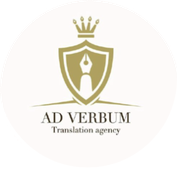
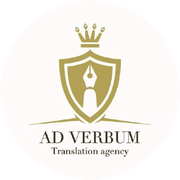
Взять логотип из оригинального файла вместо кадра со скриншота
В архиве сайта нашёлся исходник логотипа 799x800. Раньше логотип был
вырезан из скриншота телефона — 302px и мягкие края. Теперь он обрезан
по содержимому из оригинала, отрисован чётко, размеры в разметке
обновлены под новый файл.

Claude-Session: https://claude.ai/code/session_01NP9HooztR7d3vc8w62THR5

Changed region(s): [[0.1667, 0.0833, 0.8333, 0.8889]]

diff --git a/index.html b/index.html
@@ -69,7 +69,7 @@
 <header class="header" id="header">
   <div class="container header__inner">
     <a class="brand" href="#top" aria-label="AD VERBUM — на главную">
-      <span class="brand__badge"><img src="assets/logo.png" alt="AD VERBUM, бюро переводов" width="302" height="302"></span>
+      <span class="brand__badge"><img src="assets/logo.png" alt="AD VERBUM, бюро переводов" width="420" height="420"></span>
       <span class="brand__text">
         <span class="brand__name">AD VERBUM</span>
         <span class="brand__tag">бюро переводов</span>
@@ -722,7 +722,7 @@
 <footer class="footer">
   <div class="container footer__inner">
     <div class="footer__brand">
-      <span class="brand__badge brand__badge--lg"><img src="assets/logo.png" alt="AD VERBUM" width="302" height="302" loading="lazy"></span>
+      <span class="brand__badge brand__badge--lg"><img src="assets/logo.png" alt="AD VERBUM" width="420" height="420" loading="lazy"></span>
       <p class="footer__tagline">Бюро переводов AD VERBUM — нотариальный перевод, апостиль и легализация документов в Москве.</p>
     </div>
 

diff --git a/site/index.html b/site/index.html
@@ -49,7 +49,7 @@
 <header class="header">
   <div class="container header__inner">
     <a class="header__logo" href="/" aria-label="AD VERBUM — на главную">
-      <img src="assets/logo.png" alt="AD VERBUM, бюро переводов" width="302" height="302">
+      <img src="assets/logo.png" alt="AD VERBUM, бюро переводов" width="420" height="420">
     </a>
     <div class="header__contacts">
       <a class="header__phone" href="tel:+79777822555">
@@ -70,7 +70,7 @@
 <section class="cover__intro">
   <div class="container">
     <div class="cover__avatar">
-      <img src="assets/logo.png" alt="Логотип AD VERBUM" width="302" height="302">
+      <img src="assets/logo.png" alt="Логотип AD VERBUM" width="420" height="420">
     </div>
     <h1 class="intro__title">AD VERBUM</h1>
     <p class="intro__subtitle">Бюро переводов</p>

diff --git a/site/contacts.html b/site/contacts.html
@@ -27,7 +27,7 @@
 <main class="connect">
   <div class="container">
     <div class="connect__logo">
-      <img src="assets/logo.png" alt="Логотип AD VERBUM" width="302" height="302">
+      <img src="assets/logo.png" alt="Логотип AD VERBUM" width="420" height="420">
     </div>
 
     <h1 class="connect__title">AD VERBUM</h1>
